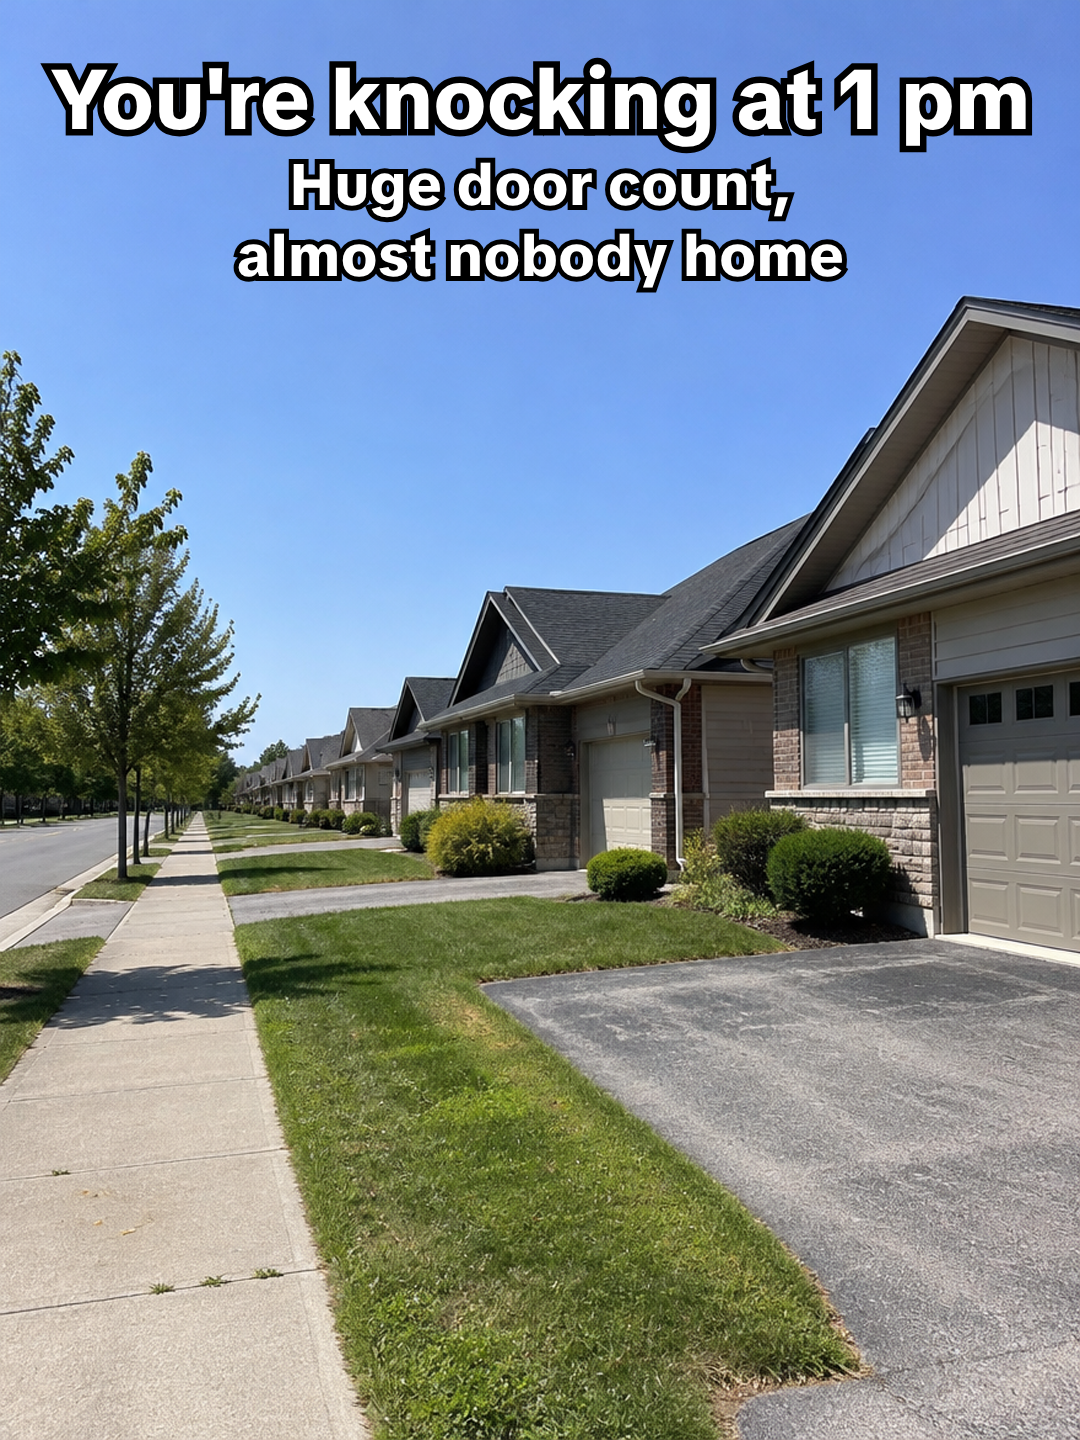
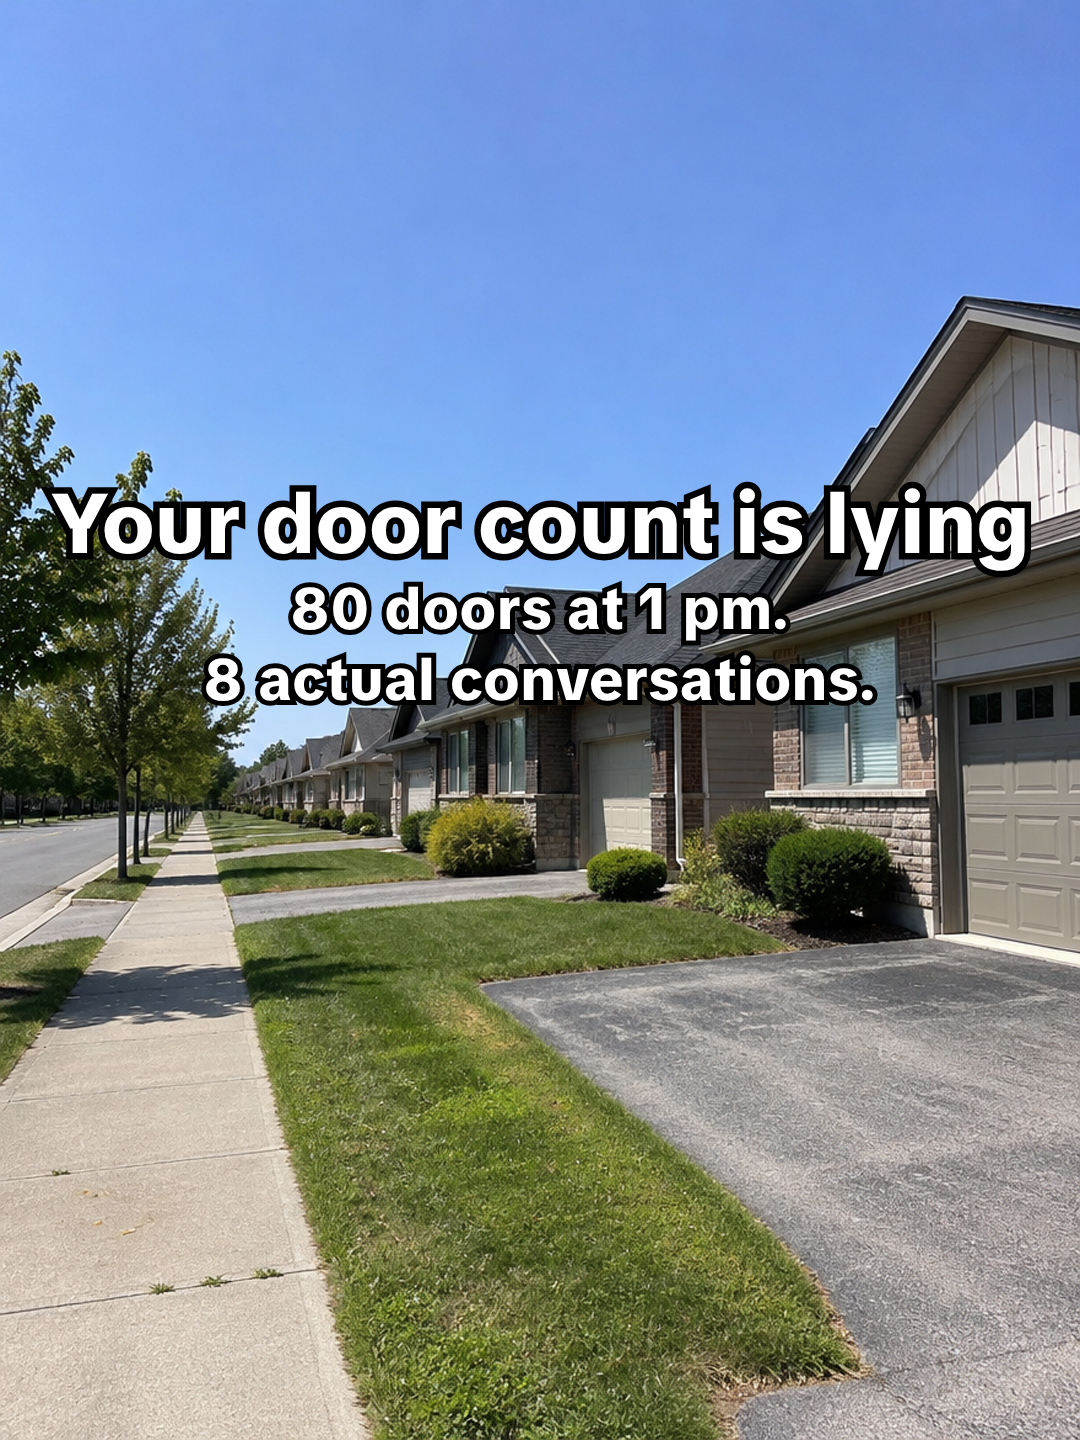
more doors carousel v3
Claude-Session: https://claude.ai/code/session_01EVxDagMumu1dzbEEzpRUBn

Changed region(s): [[0.0306, 0.0312, 0.9778, 0.2188], [0.0306, 0.3125, 0.9778, 0.5]]

diff --git a/video_research/content_kit/edits/more_doors_slides/hook.html b/video_research/content_kit/edits/more_doors_slides/hook.html
@@ -11,8 +11,9 @@ html,body{margin:0;width:1080px;height:1440px;overflow:hidden;font-family:MW;col
 .s{font-weight:400;font-size:52px;line-height:1.3;margin-top:44px;color:#3a3a3a}
 .hd{position:absolute;left:0;right:0;bottom:90px;text-align:center;font-weight:400;font-size:34px;color:#8a8a8a}
 </style></head><body><div class="w">
-<div class="h"><span style="font-size:.78em">You Don't See It, But</span><br>Knocking<br><span class="y">More Doors</span><br>Is Making You<br><span class="y">Less Money</span></div>
-<div class="s">(the reps who knock the most rarely sell the most)</div>
+<div class="s" style="margin:0 0 26px;font-size:54px;color:#333">You don't see it, but&hellip;</div>
+<div class="h" style="font-size:126px;line-height:1.18"><span class="y">More Doors</span><br>= <span class="y">Less Money</span></div>
+<div class="s" style="font-size:38px;margin-top:40px">(the reps who knock the most rarely sell the most)</div>
 </div><div class="hd" id="hd"></div>
 <script>const Q=new URLSearchParams(location.search); if(Q.get('handle')) document.getElementById('hd').textContent=Q.get('handle');</script>
 </body></html>

diff --git a/video_research/content_kit/edits/more_doors_slides/tool2.html b/video_research/content_kit/edits/more_doors_slides/tool2.html
@@ -3,7 +3,7 @@
 html,body{margin:0;width:1080px;height:1440px;overflow:hidden;background:#000}
 img.bg{position:absolute;inset:0;width:1080px;height:1440px;object-fit:cover}
 /* TikTok default "Classic" text: TikTok Sans, white fill, black outline, no background */
-.tt{position:absolute;left:36px;right:36px;top:56px;text-align:center;color:#fff;font-family:TT;font-weight:800;paint-order:stroke fill}
+.tt{position:absolute;left:36px;right:36px;top:480px;text-align:center;color:#fff;font-family:TT;font-weight:800;paint-order:stroke fill}
 .tt h1{margin:0 0 10px;font-size:84px;line-height:1.04;letter-spacing:-.5px;-webkit-text-stroke:13px #000;paint-order:stroke fill}
 .tt p{margin:6px 0 0;font-size:58px;line-height:1.12;-webkit-text-stroke:10px #000;paint-order:stroke fill}
 #cta{position:absolute;left:0;right:0;top:50%;transform:translateY(-50%);text-align:center}

diff --git a/video_research/content_kit/edits/more_doors_slides/close.html b/video_research/content_kit/edits/more_doors_slides/close.html
@@ -13,8 +13,8 @@ html,body{margin:0;width:1080px;height:1440px;overflow:hidden;font-family:MW;col
 </style></head><body><div class="w">
 <div class="h">Think I'm Wrong?<br><span class="y">Tell Me Why.</span></div>
 <div class="s">(save this for your next shift)</div>
-<div class="h" style="font-size:76px;margin-top:70px">Follow for More</div>
-<div class="s" style="margin-top:14px">(more door-to-door tips like this)</div>
-</div><div class="hd" id="hd"></div>
+
+</div>
+<div style="position:absolute;left:80px;right:60px;bottom:120px"><div class="h" style="font-size:76px">Follow for More</div><div class="s" style="margin-top:10px">(more door-to-door tips like this)</div></div><div class="hd" id="hd"></div>
 <script>const Q=new URLSearchParams(location.search); if(Q.get('handle')) document.getElementById('hd').textContent=Q.get('handle');</script>
 </body></html>

diff --git a/video_research/content_kit/edits/more_doors_slides/build.js b/video_research/content_kit/edits/more_doors_slides/build.js
@@ -1,5 +1,5 @@
 const { chromium } = require('playwright'); const path = require('path');
-const S = [['p1.png', "You're knocking at 1 pm", ['Huge door count,', 'almost nobody home']],
+const S = [['p1.png', 'Your door count is lying', ['80 doors at 1 pm.', '8 actual conversations.']],
            ['p2.png', 'Rushing burns doors', ['A maybe turns into a no', 'for months']],
            ['p3.png', 'You never go back', ["The come-back-laters are", 'your easiest sales']],
            ['p4.png', 'Knock 5 to 8 pm', ["That's when people", 'actually answer']]];
